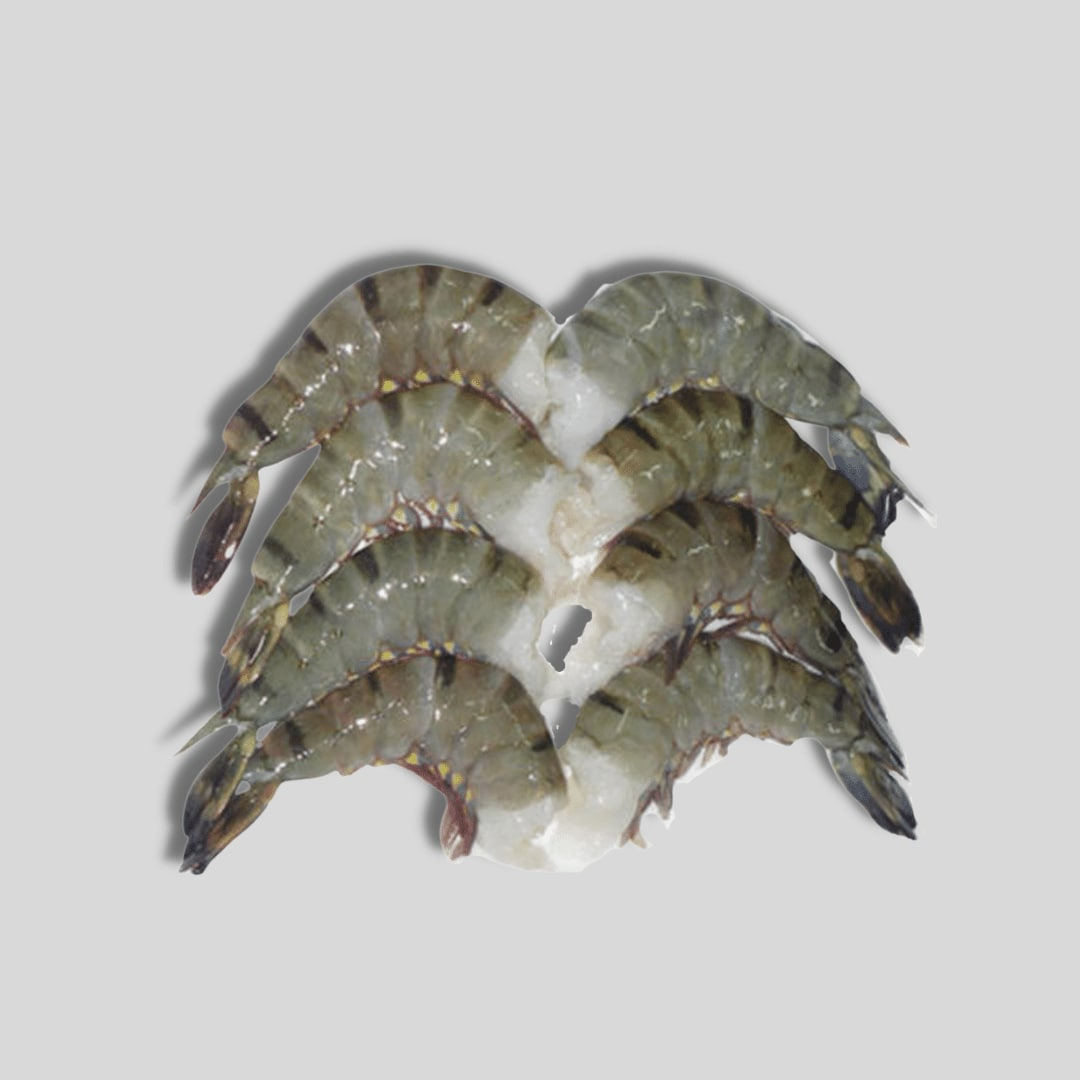
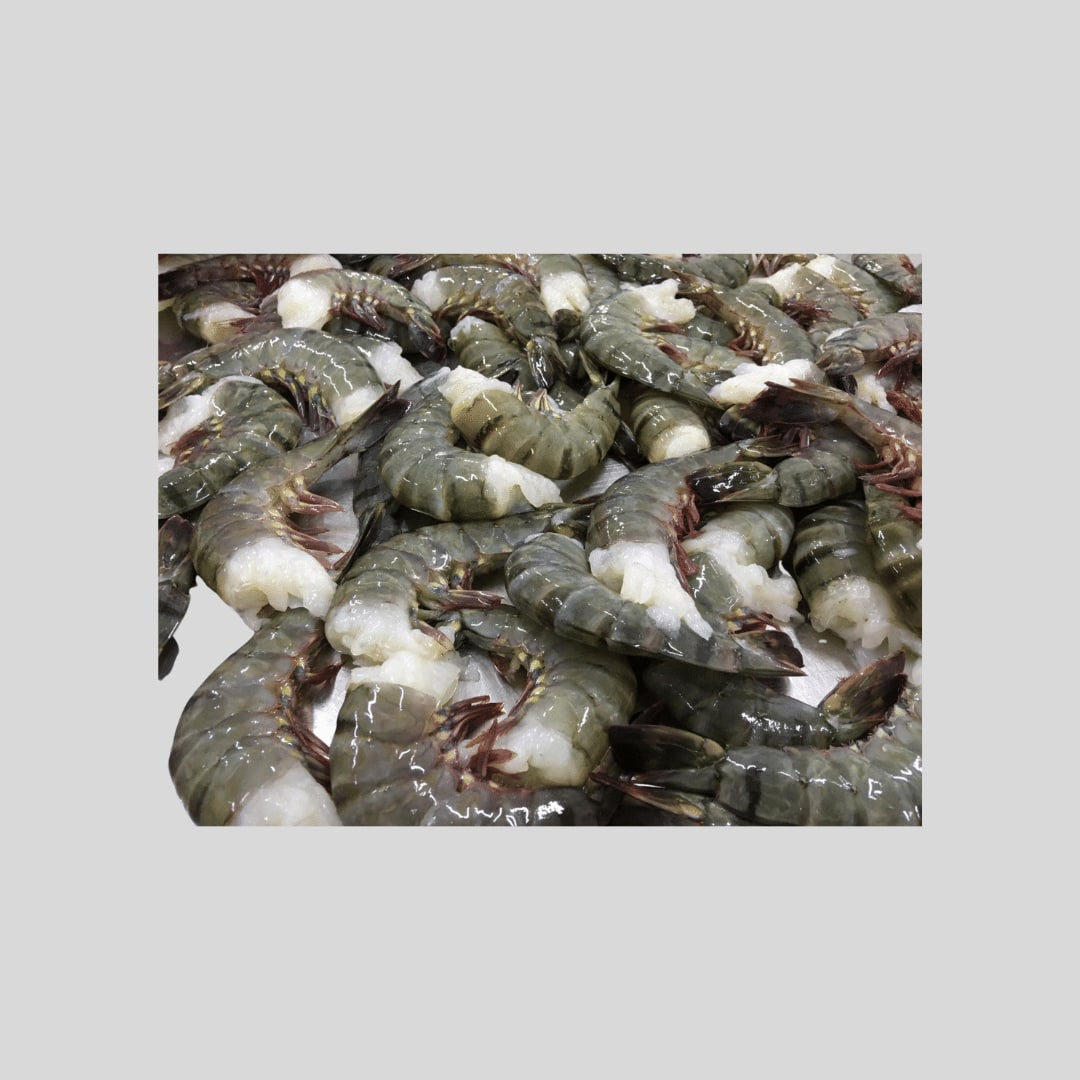
fixing cover dan foto

diff --git a/index.html b/index.html
@@ -440,7 +440,7 @@
         <!-- /.row -->
       </div>
       <!-- /.container -->
-      <figure class="position-absoute" style="bottom: 0; left: 0; z-index: 2;"><img src="assets/img/photos/bg11.jpg" alt="" /></figure>
+      <figure class="position-absoute" style="bottom: 0; left: 0; z-index: 2;"><img src="assets/cover.jpg" alt="" /></figure>
     </section>
     <!-- /section -->
     <section class="wrapper bg-gray">
@@ -633,7 +633,7 @@
               <div class="grid grid-view projects-masonry">
                 <div class="row gx-md-8 gy-10 gy-md-13 isotope">
                   <div class="project item col-md-6 col-xl-4">
-                    <figure class="rounded mb-6"><img src="/assets/product/tiger-shrimp.jpeg" srcset="/assets/product/tiger-shrimp.jpeg 2x" alt="" /><a class="item-link" href="./assets/img/photos/pd7-full.jpg" data-glightbox data-gallery="projects-group"><i class="uil uil-focus-add"></i></a></figure>
+                    <figure class="rounded mb-6"><img src="/assets/product/tiger-shrimp.jpeg" srcset="/assets/product/tiger-shrimp.jpeg 2x" alt="" /><a class="item-link" href="./assets/product/tiger-shrimp.jpeg" data-glightbox data-gallery="projects-group"><i class="uil uil-focus-add"></i></a></figure>
                     <div class="project-details d-flex justify-content-center flex-column">
                       <div class="post-header">
                         <h2 class="post-title h3 fs-22">Tiger Shrimp</h2>
@@ -645,7 +645,7 @@
                   </div>
                   <!-- /.item -->
                   <div class="project item col-md-6 col-xl-4">
-                    <figure class="rounded mb-6"><img src="/assets/product/tiger-shrimp-2.jpeg" srcset="/assets/product/tiger-shrimp-2.jpeg 2x" alt="" /><a class="item-link" href="./assets/img/photos/pd7-full.jpg" data-glightbox data-gallery="projects-group"><i class="uil uil-focus-add"></i></a></figure>
+                    <figure class="rounded mb-6"><img src="/assets/product/tiger-shrimp-2.jpeg" srcset="/assets/product/tiger-shrimp-2.jpeg 2x" alt="" /><a class="item-link" href="./assets/product/tiger-shrimp-2.jpeg" data-glightbox data-gallery="projects-group"><i class="uil uil-focus-add"></i></a></figure>
                     <div class="project-details d-flex justify-content-center flex-column">
                       <div class="post-header">
                         <h2 class="post-title h3 fs-22">Tiger Shrimp</h2>
@@ -657,7 +657,7 @@
                   </div>
                   <!-- /.item -->
                   <div class="project item col-md-6 col-xl-4">
-                    <figure class="rounded mb-6"><img src="/assets/product/tiger-shrimp-3.jpeg" srcset="/assets/product/tiger-shrimp-3.jpeg 2x" alt="" /><a class="item-link" href="./assets/img/photos/pd7-full.jpg" data-glightbox data-gallery="projects-group"><i class="uil uil-focus-add"></i></a></figure>
+                    <figure class="rounded mb-6"><img src="/assets/product/tiger-shrimp-3.jpeg" srcset="/assets/product/tiger-shrimp-3.jpeg 2x" alt="" /><a class="item-link" href="./assets/product/tiger-shrimp-3.jpeg" data-glightbox data-gallery="projects-group"><i class="uil uil-focus-add"></i></a></figure>
                     <div class="project-details d-flex justify-content-center flex-column">
                       <div class="post-header">
                         <h2 class="post-title h3 fs-22">Tiger Shrimp</h2>
@@ -669,7 +669,19 @@
                   </div>
                   <!-- /.item -->
                   <div class="project item col-md-6 col-xl-4">
-                    <figure class="rounded mb-6"><img src="/assets/product/tiger-shrimp-4.jpeg" srcset="/assets/product/tiger-shrimp-3.jpeg 2x" alt="" /><a class="item-link" href="./assets/img/photos/pd7-full.jpg" data-glightbox data-gallery="projects-group"><i class="uil uil-focus-add"></i></a></figure>
+                    <figure class="rounded mb-6"><img src="/assets/product/tiger-shrimp-4.jpeg" srcset="/assets/product/tiger-shrimp-4.jpeg 2x" alt="" /><a class="item-link" href="./assets/product/tiger-shrimp-4.jpeg" data-glightbox data-gallery="projects-group"><i class="uil uil-focus-add"></i></a></figure>
+                    <div class="project-details d-flex justify-content-center flex-column">
+                      <div class="post-header">
+                        <h2 class="post-title h3 fs-22">Tiger Shrimp</h2>
+                        <div class="post-category text-ash">Seafood</div>
+                      </div>
+                      <!-- /.post-header -->
+                    </div>
+                    <!-- /.project-details -->
+                  </div>
+                  <!-- /.item -->
+                  <div class="project item col-md-6 col-xl-4">
+                    <figure class="rounded mb-6"><img src="/assets/product/tiger-shrimp-5.jpeg" srcset="/assets/product/tiger-shrimp-5.jpeg 2x" alt="" /><a class="item-link" href="./assets/product/tiger-shrimp-5.jpeg" data-glightbox data-gallery="projects-group"><i class="uil uil-focus-add"></i></a></figure>
                     <div class="project-details d-flex justify-content-center flex-column">
                       <div class="post-header">
                         <h2 class="post-title h3 fs-22">Tiger & White Shrimp</h2>
@@ -681,19 +693,7 @@
                   </div>
                   <!-- /.item -->
                   <div class="project item col-md-6 col-xl-4">
-                    <figure class="rounded mb-6"><img src="/assets/product/tiger-shrimp-5.jpeg" srcset="/assets/product/tiger-shrimp-5.jpeg 2x" alt="" /><a class="item-link" href="./assets/img/photos/pd7-full.jpg" data-glightbox data-gallery="projects-group"><i class="uil uil-focus-add"></i></a></figure>
-                    <div class="project-details d-flex justify-content-center flex-column">
-                      <div class="post-header">
-                        <h2 class="post-title h3 fs-22">Tiger & White Shrimp</h2>
-                        <div class="post-category text-ash">Seafood</div>
-                      </div>
-                      <!-- /.post-header -->
-                    </div>
-                    <!-- /.project-details -->
-                  </div>
-                  <!-- /.item -->
-                  <div class="project item col-md-6 col-xl-4">
-                    <figure class="rounded mb-6"><img src="/assets/product/tiger-shrimp-6.jpeg" srcset="/assets/product/tiger-shrimp-6.jpeg 2x" alt="" /><a class="item-link" href="./assets/img/photos/pd7-full.jpg" data-glightbox data-gallery="projects-group"><i class="uil uil-focus-add"></i></a></figure>
+                    <figure class="rounded mb-6"><img src="/assets/product/tiger-shrimp-6.jpeg" srcset="/assets/product/tiger-shrimp-6.jpeg 2x" alt="" /><a class="item-link" href="./assets/product/tiger-shrimp-6.jpeg" data-glightbox data-gallery="projects-group"><i class="uil uil-focus-add"></i></a></figure>
                     <div class="project-details d-flex justify-content-center flex-column">
                       <div class="post-header">
                         <h2 class="post-title h3 fs-22">Tiger & White Shrimp</h2>
@@ -709,7 +709,7 @@
               </div>
               <!-- /.grid -->
               <div class="text-center mt-10">
-                <a href="#" class="btn btn-lg btn-primary rounded-pill">Start a Project</a>
+                <a href="#" class="btn btn-lg btn-primary rounded-pill">Start a Product</a>
               </div>
             </div>
             <!-- /.container -->
@@ -727,7 +727,7 @@
                         </figcaption>
                       </figure>
                       <div class="post-header">
-                        <h2 class="post-title h3 mb-3"><a class="link-dark" href="blog-post.html">Tiger Shrimp</a></h2>
+                        <h2 class="post-title h3 mb-3"><a class="link-dark" href="blog-post.html">White Shrimp</a></h2>
                       </div>
                       <!-- /.post-header -->
                       <div class="post-footer">
@@ -833,7 +833,7 @@
                     <div class="position-relative">
                       <div class="shape rounded bg-soft-blue rellax d-md-block" data-rellax-speed="0" style="bottom: -0.75rem; right: -0.75rem; width: 98%; height: 98%; z-index:0"></div>
                       <div class="card">
-                        <figure class="card-img-top"><img class="img-fluid" src="./assets/img/avatars/sofyan.jpg" srcset="./assets/img/avatars/t1@2x.jpg 2x" alt="" /></figure>
+                        <figure class="card-img-top"><img class="img-fluid" src="./assets/img/avatars/ismu.jpg" srcset="./assets/img/avatars/t1@2x.jpg 2x" alt="" /></figure>
                         <div class="card-body px-6 py-5">
                           <h4 class="mb-1">Ismu</h4>
                           <p class="mb-0">Founder</p>
@@ -849,7 +849,7 @@
                     <div class="position-relative">
                       <div class="shape rounded bg-soft-red rellax d-md-block" data-rellax-speed="0" style="bottom: -0.75rem; right: -0.75rem; width: 98%; height: 98%; z-index:0"></div>
                       <div class="card">
-                        <figure class="card-img-top"><img class="img-fluid" src="./assets/img/avatars/ismu.jpg" srcset="./assets/img/avatars/t2@2x.jpg 2x" alt="" /></figure>
+                        <figure class="card-img-top"><img class="img-fluid" src="./assets/img/avatars/sofyan.jpg" srcset="./assets/img/avatars/t2@2x.jpg 2x" alt="" /></figure>
                         <div class="card-body px-6 py-5">
                           <h4 class="mb-1">Sofyan</h4>
                           <p class="mb-0">Financial Analyst</p>
